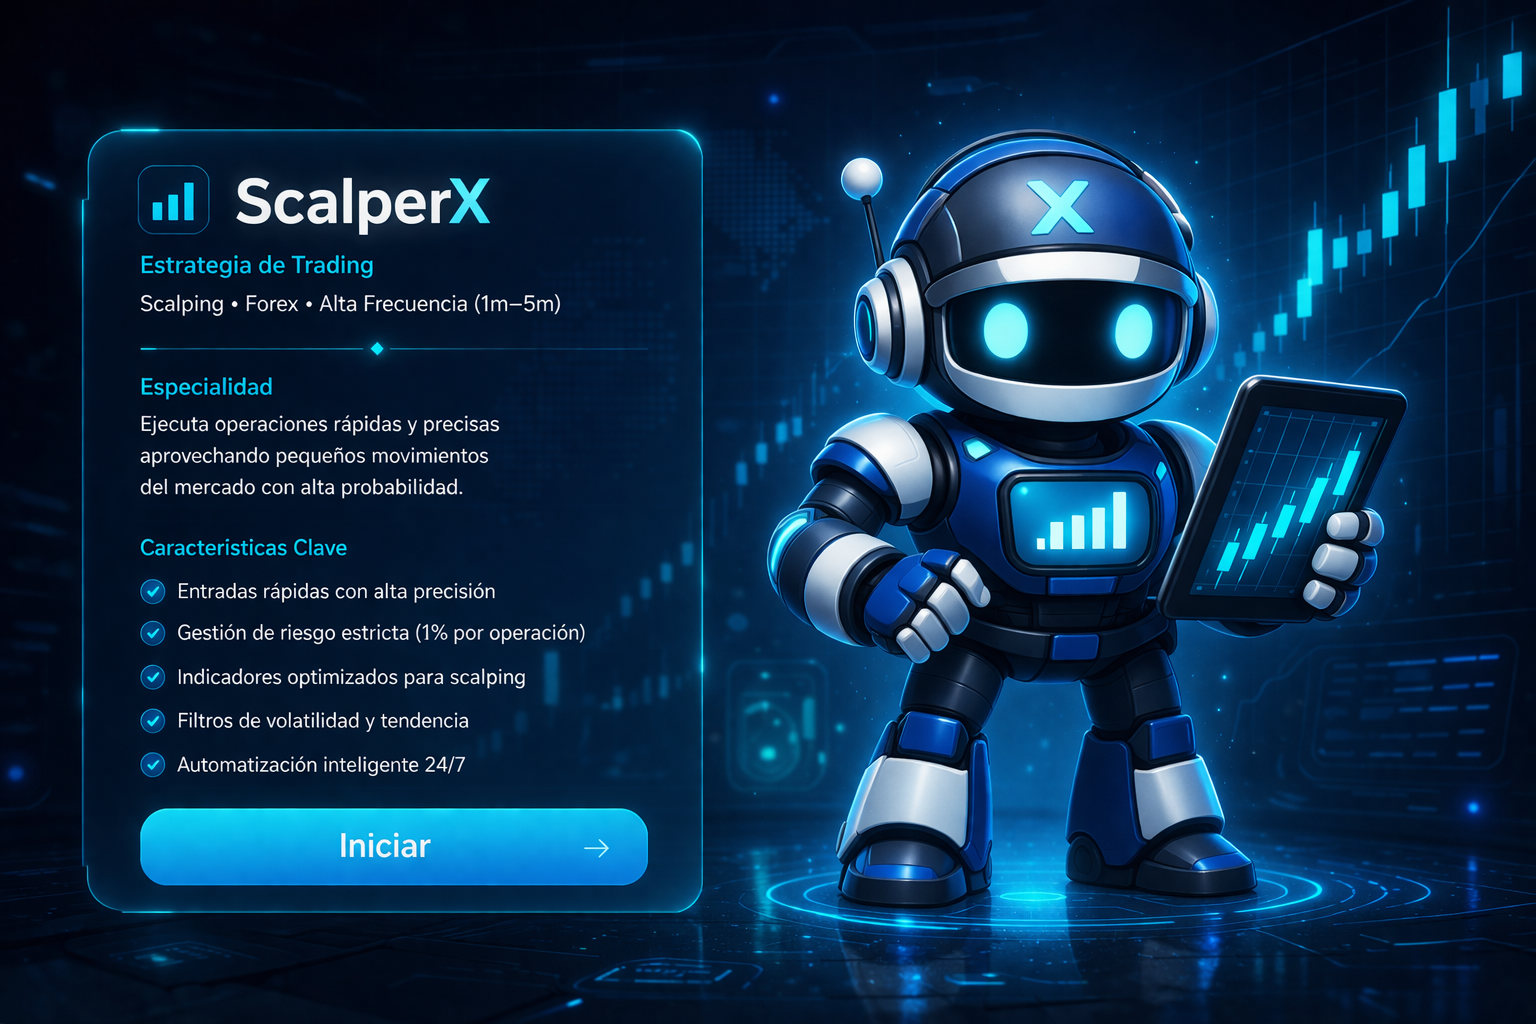
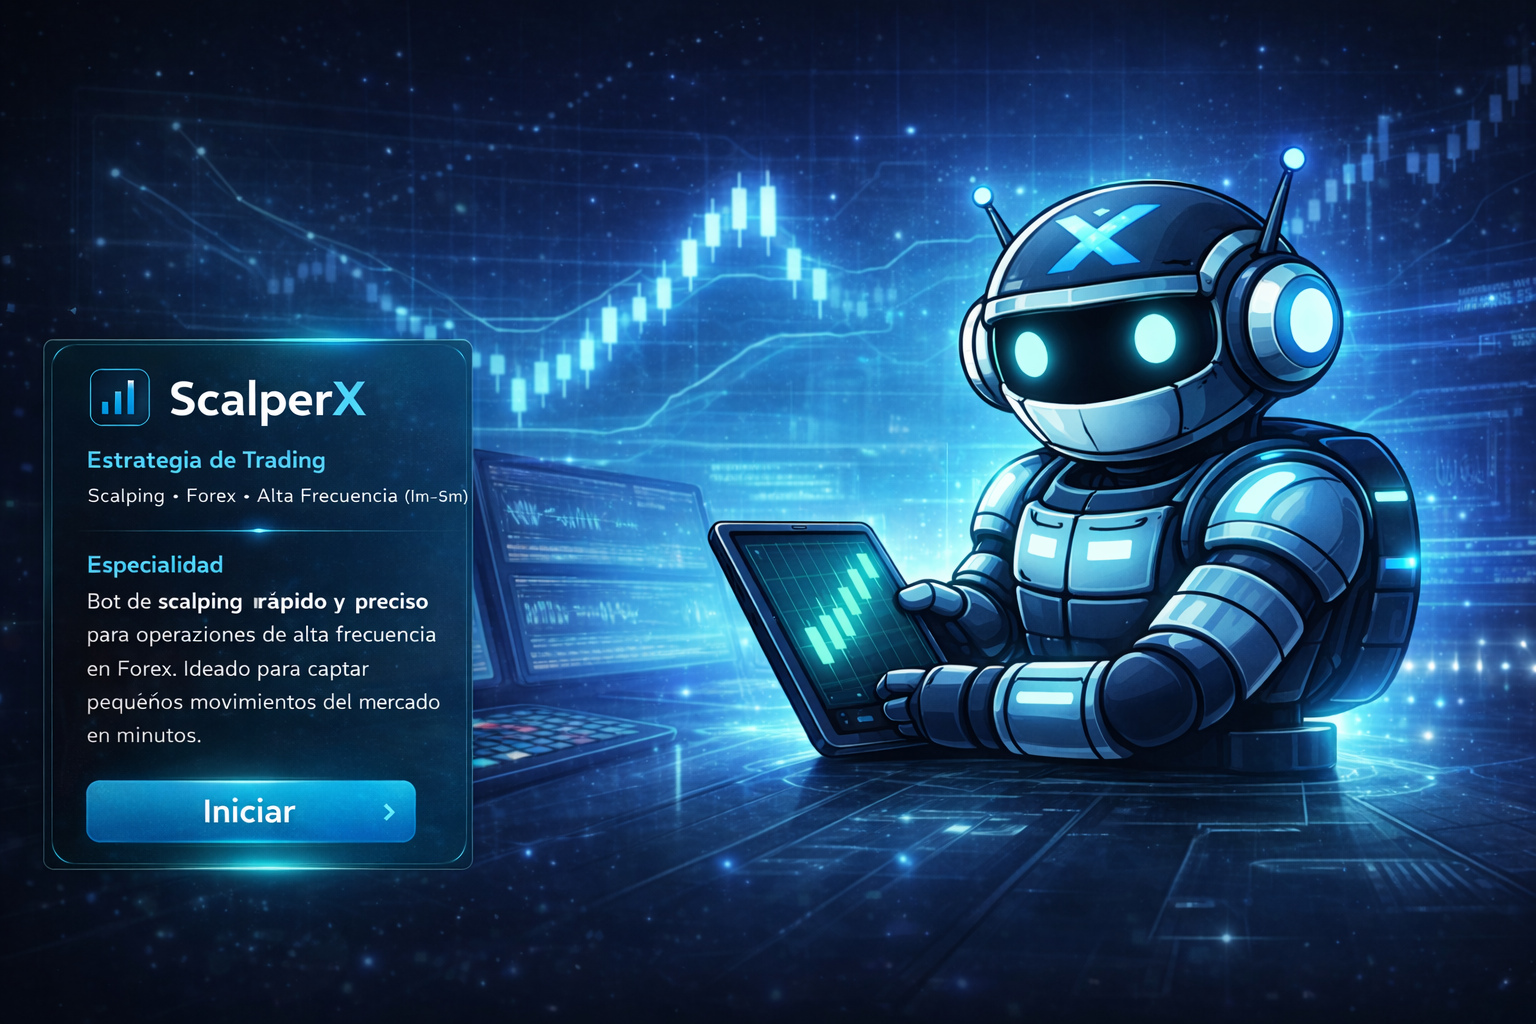
fix: ScalperX new image full-screen cover, no black bars, invisible Iniciar overlay

diff --git a/src/app/bots/scalperx/page.tsx b/src/app/bots/scalperx/page.tsx
@@ -1,12 +1,11 @@
 "use client";
 
 import { useRouter } from "next/navigation";
-import Image from "next/image";
 import { useState } from "react";
 import api from "@/lib/api";
 
 export default function ScalperXPage() {
-  const router            = useRouter();
+  const router = useRouter();
   const [loading, setLoading] = useState(false);
   const [error, setError]     = useState<string | null>(null);
 
@@ -24,103 +23,91 @@ export default function ScalperXPage() {
 
   return (
     <div style={{
-      minHeight: "100vh",
-      width: "100%",
+      width: "100vw",
+      height: "100vh",
       position: "relative",
       overflow: "hidden",
-      background: "#020b18",
-      display: "flex",
-      alignItems: "center",
-      justifyContent: "center",
+      backgroundImage: "url('/bot-scalperx.png')",
+      backgroundSize: "cover",
+      backgroundPosition: "center",
+      backgroundRepeat: "no-repeat",
     }}>
 
-      {/* ── Fullscreen bot image ─────────────────────────────────────────── */}
-      <div style={{ position: "absolute", inset: 0, zIndex: 0 }}>
-        <Image
-          src="/bot-scalperx.png"
-          alt="ScalperX"
-          fill
-          style={{ objectFit: "cover", objectPosition: "center" }}
-          priority
-        />
-      </div>
-
-      {/* ── Back button (top-left, always visible) ──────────────────────── */}
+      {/* ── Back button ──────────────────────────────────────────────────── */}
       <button
         onClick={() => router.back()}
         style={{
           position: "absolute", top: 24, left: 24, zIndex: 10,
-          background: "rgba(0,0,0,0.45)",
+          background: "rgba(0,0,0,0.5)",
           backdropFilter: "blur(8px)",
           border: "1px solid rgba(255,255,255,0.15)",
-          borderRadius: 8, color: "rgba(255,255,255,0.75)",
+          borderRadius: 8, color: "rgba(255,255,255,0.8)",
           fontSize: 13, padding: "7px 16px", cursor: "pointer",
         }}
       >
         ← Volver
       </button>
 
-      {/* ── Invisible Iniciar overlay — sits on top of image's button ───── */}
-      {/* Button is roughly at left 7%, top 79%, width 37%, height 8% of image */}
-      <div style={{
-        position: "absolute", zIndex: 5,
-        left: "7%", top: "79%",
-        width: "37%", height: "8%",
-      }}>
-        <button
-          onClick={handleIniciar}
-          disabled={loading}
-          className="scalper-invisible-btn"
-          style={{
-            width: "100%", height: "100%",
-            background: "transparent",
-            border: "none", cursor: loading ? "not-allowed" : "pointer",
-            outline: "none",
-          }}
-        />
-      </div>
+      {/* ── Invisible overlay on the "Iniciar" button in the image ───────── */}
+      {/* Calibrated to botito222.png: button ~left 5%, top 76%, w 28%, h 7% */}
+      <button
+        onClick={handleIniciar}
+        disabled={loading}
+        style={{
+          position: "absolute",
+          left: "5%", top: "76%",
+          width: "28%", height: "7%",
+          background: "transparent",
+          border: "none",
+          cursor: loading ? "not-allowed" : "pointer",
+          outline: "none",
+          zIndex: 5,
+        }}
+      />
 
-      {/* ── Error toast ──────────────────────────────────────────────────── */}
+      {/* ── Error toast ───────────────────────────────────────────────────── */}
       {error && (
         <div style={{
           position: "absolute", bottom: 32, left: "50%",
           transform: "translateX(-50%)", zIndex: 20,
-          background: "rgba(239,68,68,0.9)",
+          background: "rgba(239,68,68,0.92)",
           backdropFilter: "blur(8px)",
-          borderRadius: 10, padding: "12px 24px",
+          borderRadius: 10, padding: "12px 28px",
           color: "#fff", fontSize: 14, fontWeight: 600,
+          whiteSpace: "nowrap",
         }}>
           {error}
         </div>
       )}
 
-      {/* ── Loading overlay ───────────────────────────────────────────────  */}
+      {/* ── Loading overlay ───────────────────────────────────────────────── */}
       {loading && (
         <div style={{
           position: "absolute", inset: 0, zIndex: 15,
-          background: "rgba(2,11,24,0.6)",
+          background: "rgba(2,11,24,0.65)",
           display: "flex", alignItems: "center", justifyContent: "center",
         }}>
           <div style={{
-            background: "rgba(14,30,60,0.92)",
+            background: "rgba(14,30,60,0.95)",
             border: "1px solid rgba(59,130,246,0.3)",
-            borderRadius: 16, padding: "32px 48px",
-            textAlign: "center",
+            borderRadius: 16, padding: "32px 48px", textAlign: "center",
           }}>
             <div style={{
-              width: 36, height: 36, border: "3px solid rgba(59,130,246,0.2)",
-              borderTop: "3px solid #3b82f6", borderRadius: "50%",
+              width: 36, height: 36,
+              border: "3px solid rgba(59,130,246,0.2)",
+              borderTop: "3px solid #3b82f6",
+              borderRadius: "50%",
               animation: "spin 0.8s linear infinite",
               margin: "0 auto 16px",
             }} />
-            <p style={{ color: "#fff", fontWeight: 600, margin: 0 }}>Activando ScalperX...</p>
+            <p style={{ color: "#fff", fontWeight: 600, margin: 0 }}>
+              Activando ScalperX...
+            </p>
           </div>
         </div>
       )}
 
-      <style>{`
-        @keyframes spin { to { transform: rotate(360deg); } }
-      `}</style>
+      <style>{`@keyframes spin { to { transform: rotate(360deg); } }`}</style>
     </div>
   );
 }
